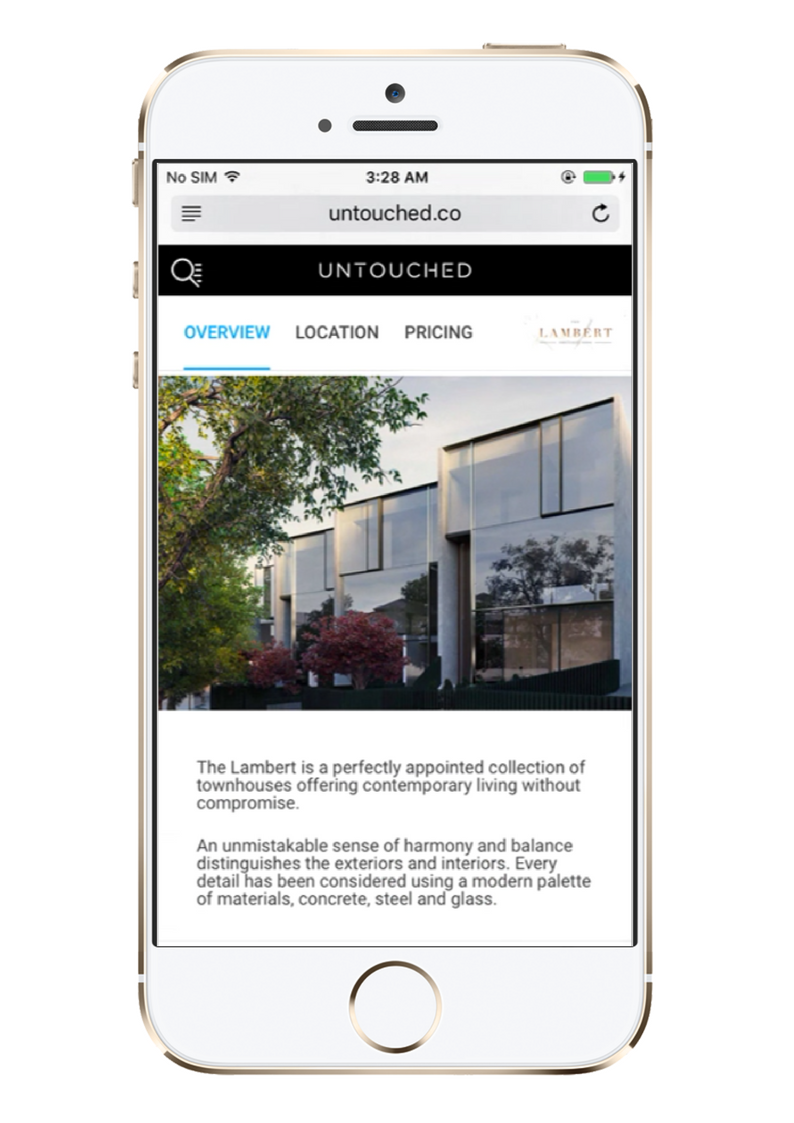
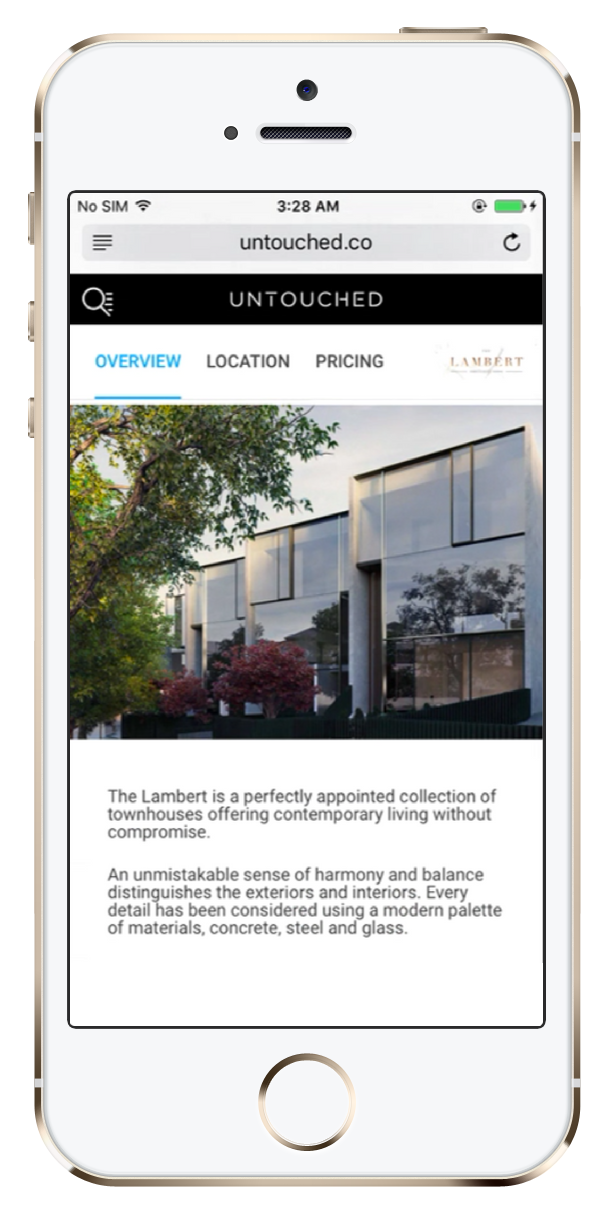
landing updates

diff --git a/client/app/bundles/untouched/containers/LandingPage.jsx b/client/app/bundles/untouched/containers/LandingPage.jsx
@@ -47,15 +47,13 @@ export default class LandingPage extends Component {
 
         <main className="main">
 
-          <Waypoint
-            onEnter={this._handleWaypoint('hero')}
-            onLeave={this._handleWaypoint('hero')}
-          />
-          <Motion defaultStyle={{x: -65, opacity: 0}} style={this.state.hero}>
-            {({x, opacity}) =>
-              // children is a callback which should accept the current value of
-              // `style`
-              <div className="landing__section landing__section-hero text-center">
+          <div className="landing__section landing__section-intro text-center">
+            <Waypoint
+              onEnter={this._handleWaypoint('hero')}
+              onLeave={this._handleWaypoint('hero')}
+            />
+            <Motion defaultStyle={{x: -65, opacity: 0}} style={this.state.hero}>
+              {({x, opacity}) =>
                 <div className="container">
                   <div style={{
                     transform: `matrix3d(1, 0, 0, 0, 0, 1, 0, 0, 0, 0, 1, 0, 0, ${x}, 0, 1)`,
@@ -70,33 +68,33 @@ export default class LandingPage extends Component {
                   </div>
                   <figure className="landing__phone" />
                 </div>  
-              </div> 
-            }
-          </Motion>
+              }
+            </Motion>
 
-          <Waypoint
-            onEnter={this._handleWaypoint('logo')}
-            onLeave={this._handleWaypoint('logo')}
-          />
-          <Motion defaultStyle={{x: -65, opacity: 0}} style={this.state.logo}>
-            {({x, opacity}) =>
-              <div className="landing__section landing__section-hero text-center" style={{
-                transform: `matrix3d(1, 0, 0, 0, 0, 1, 0, 0, 0, 0, 1, 0, 0, ${x}, 0, 1)`,
-                opacity,
-              }}>
-                <div className="container">
-                  <div className="landing__hero">
-                    HELPS LEADING PROPERTY DEVELOPERS & PROJECT MARKETERS SELL PROJECTS FASTER & MORE EFFORTLESSLY
+            <Waypoint
+              onEnter={this._handleWaypoint('logo')}
+              onLeave={this._handleWaypoint('logo')}
+            />
+            <Motion defaultStyle={{x: -65, opacity: 0}} style={this.state.logo}>
+              {({x, opacity}) =>
+                <div className="landing__section landing__section-hero text-center" style={{
+                  transform: `matrix3d(1, 0, 0, 0, 0, 1, 0, 0, 0, 0, 1, 0, 0, ${x}, 0, 1)`,
+                  opacity,
+                }}>
+                  <div className="container">
+                    <div className="landing__hero-intro">
+                      HELPS LEADING PROPERTY DEVELOPERS & PROJECT MARKETERS SELL PROJECTS FASTER & MORE EFFORTLESSLY
+                    </div>
+                    <Link className="landing__logo" to="/">
+                      <img src="/images/logo-untouched-white.svg" alt="Untouched" />
+                    </Link>
                   </div>
-                  <Link className="landing__logo" to="/">
-                    <img src="/images/logo-untouched-white.svg" alt="Untouched" />
-                  </Link>
                 </div>
-              </div>
-            }
-          </Motion>
+              }
+            </Motion>
+          </div>
 
-          <div className="landing__section landing__section-letter">  
+          <div className="landing__section landing__section-letter text-center">  
             <div className="container">
               <div className="landing__hero">
                 Thoughts From Our Founder & CEO
@@ -126,11 +124,11 @@ export default class LandingPage extends Component {
                 <br /><br />
                 As I’m still selling new developments and constantly using the tool, I’m relentlessly refining and improving UNTOUCHED nearly every day. There’s some other stuff out there, but there’s nothing else like UNTOUCHED.
                 <br /><br />
-                To prove this to you, I’ll be hosting a LIVE webinar on Friday 4th November at 10AM AEST where I’ll show you exactly how I’ve used UNTOUCHED to take my sales to the next level with far less effort - and how agency principals and property developers themselves can enjoy even greater benefits.
+                To prove this to you, I’ll be hosting a LIVE webinar on <b>Friday 4th November at 10AM AEST</b> where I’ll show you exactly how I’ve used UNTOUCHED to take my sales to the next level with far less effort - and how agency principals and property developers themselves can enjoy even greater benefits.
                 <br /><br />
-                I’m 100% certain UNTOUCHED can improve how you manage and sell your new development projects. So please register for the webinar and I look forward to showing you how it all works.
+                I’m 100% certain UNTOUCHED can improve how you manage and sell your new development projects. So please <a>register for the webinar</a> and I look forward to showing you how it all works.
                 <br /><br />
-                Wishing you all the best,
+                Wishing you all the best,<br />
                 Sasha Gilberg, 
                 <br /><br />
                 Founder at UNTOUCHED / Sales Consultant at CastranGilbert

diff --git a/app/assets/stylesheets/site.scss b/app/assets/stylesheets/site.scss
@@ -3106,12 +3106,18 @@ footer .copyright-info__links li a:hover {
 
 }
 
+.landing__section-intro {
+  padding-top: 80px;
+  background: linear-gradient(to bottom, #fff 0, #f6f6f6 150px);
+}
+
 .landing__section-hero {
   padding-top: 80px;
+  padding-bottom: 80px;
 }
 
 .landing__section-letter {
-  padding-top: 80px;
+  padding-top: 110px;
   padding-bottom: 180px;
 }
 
@@ -3132,18 +3138,18 @@ footer .copyright-info__links li a:hover {
 }
 
 .landing__phone {
-  width: 595px;
-  height: 849px;
-  background-size: 595px 849px;
+  width: 404px;
+  height: 812px;
+  background-size: 404px 812px;
   background-repeat: no-repeat;
   background-image: url("/images/landing-phone.png");
   left: 50%;
-  margin-left: -297.5px;
+  margin-left: -202px;
   position: relative;
   margin-top: 55px;
 }
 
-.landing__hero {
+.landing__hero-intro {
   font-size: 24px;
   line-height: 1.14286;
   font-weight: 400;
@@ -3151,8 +3157,16 @@ footer .copyright-info__links li a:hover {
   margin-bottom: 21px;
 }
 
+.landing__hero {
+  font-size: 64px;
+  line-height: 1.0625;
+  font-weight: 200;
+  letter-spacing: -.02em;
+  margin-bottom: 21px;
+}
+
 .landing__letter {
-  font-size: 19px;
+  font-size: 24px;
   line-height: 1.33349;
   font-weight: 300;
   letter-spacing: 0em;
@@ -3180,8 +3194,13 @@ footer .copyright-info__links li a:hover {
     padding-right: 30px;
   }
 
+  .landing__section-intro {
+    padding-top: 40px;
+  }
+
   .landing__section-hero {
     padding-top: 40px;
+    padding-bottom: 40px;
   }
 
   .landing__section-letter {
@@ -3201,6 +3220,12 @@ footer .copyright-info__links li a:hover {
     line-height: 1;
   }
 
+  .landing__hero-intro {
+    font-size: 15px;
+    line-height: 1;
+    margin-bottom: 10px;
+  }  
+
   .landing__hero {
     font-size: 15px;
     line-height: 1;
@@ -3208,10 +3233,10 @@ footer .copyright-info__links li a:hover {
   }
 
   .landing__phone {
-    width: 198px;
-    height: 283px;
-    background-size: 198px 283px;
-    margin-left: -99px;
+    width: 202px;
+    height: 406px;
+    background-size: 202px 406px;
+    margin-left: -101px;
     margin-top: 20px;
   }
 
